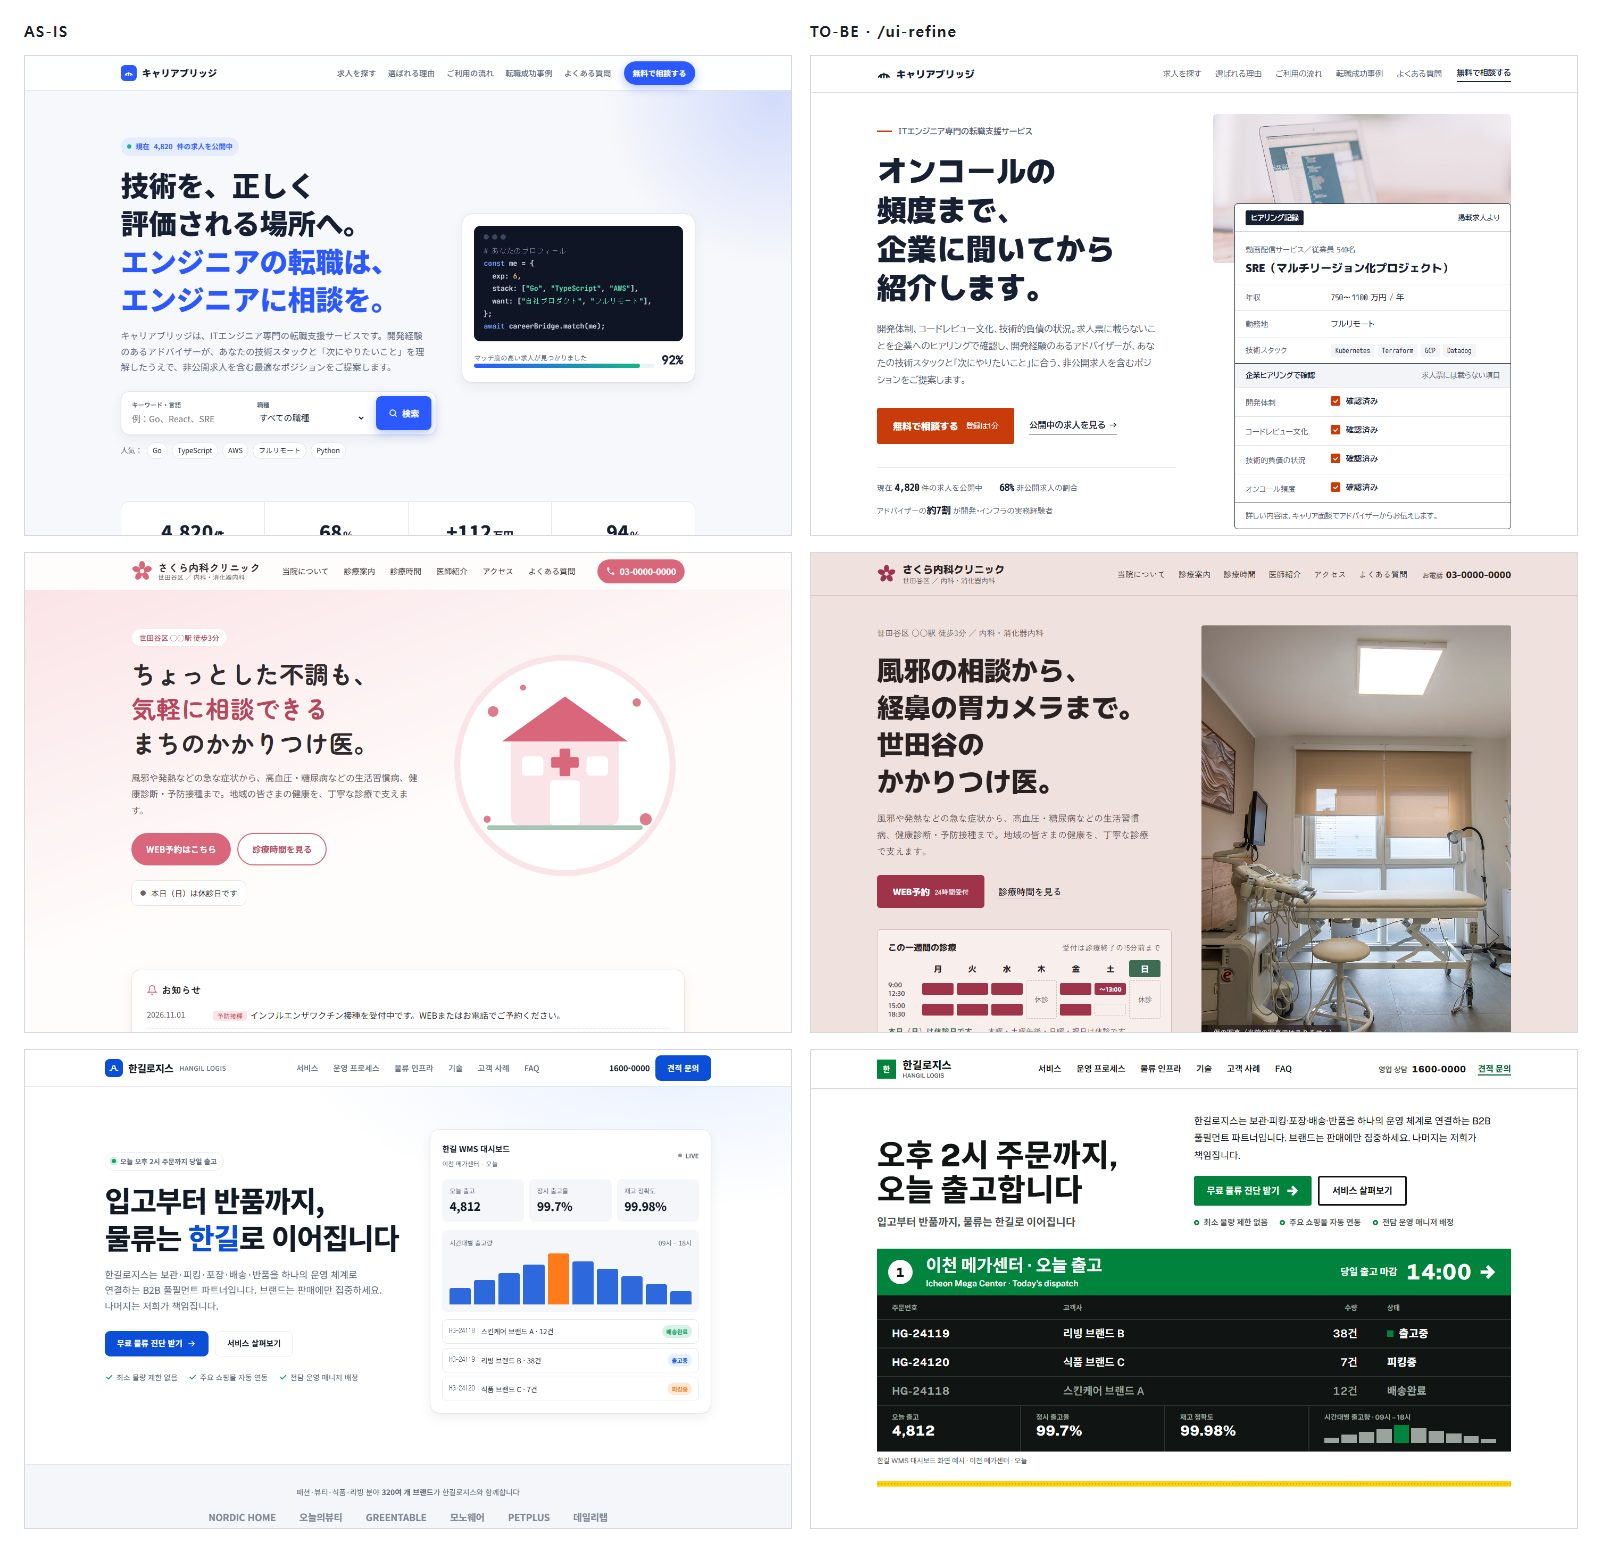
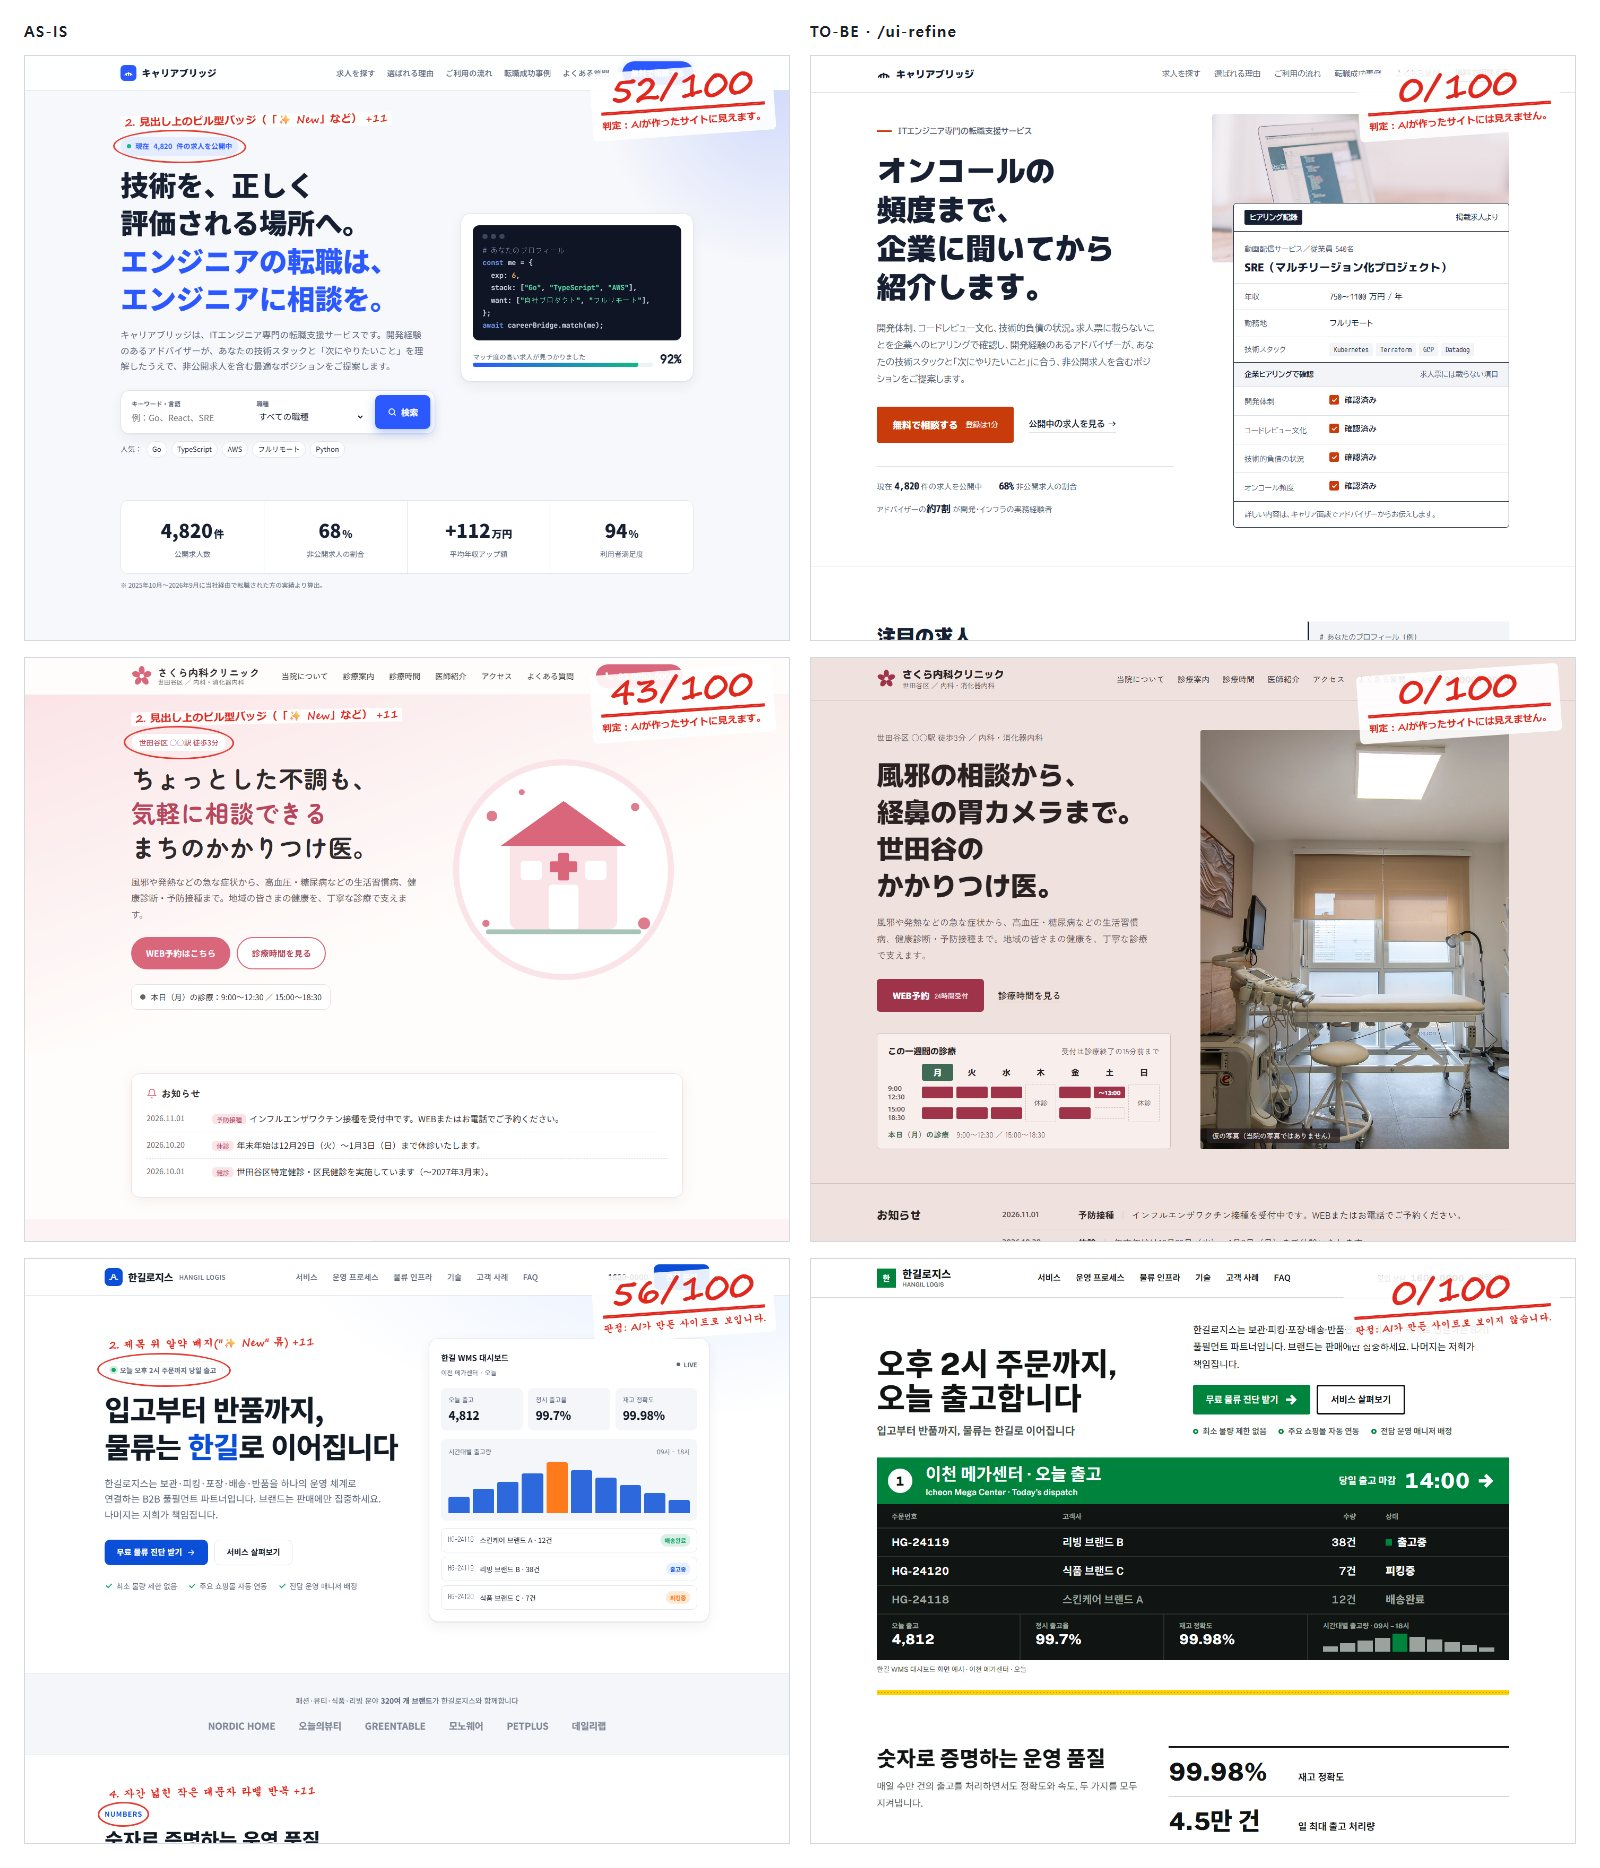
feat: scan saves the screenshot marked up like a graded paper
- ui-refiner scan writes scan-graded.png: each scored signal circled in red
  where it was found, with its points, and the score and verdict at the top.
  DESIGN_REVIEW.md links it; scan.json records it as `graded`.
- README (en, ko, ja): the before/after image now uses the graded
  screenshots (originals 52, 43, 56; refined pages 0).

diff --git a/README_KO.md b/README_KO.md
@@ -20,6 +20,7 @@ Claude Code와 Codex용 디자인 도구입니다. 에이전트가 만든 페이
   - `ui-refiner scan <url | 파일>`은 설정 없이 돌아갑니다.
   - 렌더링된 화면에서 스무 가지 남짓한 신호를 봅니다. 보라색 그라데이션, 아이콘 카드 그리드, 알약 모양 라벨, 유리 효과, 영어·한국어·일본어의 상투적인 문구 등입니다. 신호마다 근거, 뻔해 보이는 이유, 수정 방향이 붙습니다.
   - AI가 만든 사이트와 사람이 만든 사이트 약 250곳으로 맞췄습니다. 20점 이상을 기준으로 AI 사이트의 66–74%를 잡고, 사람 사이트는 0–15%가 걸립니다.
+  - 스크린샷을 채점한 시험지처럼 표시한 이미지(`scan-graded.png`)도 저장합니다. 점수가 붙은 신호마다 발견된 자리에 빨간 동그라미와 점수를 적고, 맨 위에 총점을 씁니다.
   - 다시 스캔하면 전후 비교부터 보여 줍니다.
 - **일본어 페이지는 실제 일본 사이트 209곳 사이에 놓고 봅니다.**
   - 조판 검사: 일본어 글꼴 누락, 좁은 행간, 제목의 한 글자 넘김(泣き別れ), 어색한 줄바꿈, 가짜 이탤릭.
@@ -29,7 +30,7 @@ Claude Code와 Codex용 디자인 도구입니다. 에이전트가 만든 페이
 
 ![벤치마크 페이지 3개: 왼쪽이 원본, 오른쪽이 /ui-refine 적용 후.](docs/assets/as-is-to-be.jpg)
 
-벤치마크 페이지 3개를 Claude가 처음 만든 그대로(왼쪽)와, 세 방향을 쓰는 현재 refine을 적용한 뒤(오른쪽, 미출시)입니다. 사람이 고르는 자리에서는 에이전트가 대신 골랐습니다. 병원 사진은 출처를 밝힌 임시 사진입니다.
+벤치마크 페이지 3개를 Claude가 처음 만든 그대로(왼쪽)와, 세 방향을 쓰는 현재 refine을 적용한 뒤(오른쪽, 미출시)입니다. 사람이 고르는 자리에서는 에이전트가 대신 골랐습니다. 병원 사진은 출처를 밝힌 임시 사진입니다. 빨간 표시는 스캔이 직접 그린 채점본(`scan-graded.png`)입니다. 점수가 붙은 신호마다 발견된 자리에 동그라미와 점수를 적고, 오른쪽 위에 AI 티 점수를 씁니다. 원본은 52, 43, 56점이고 고친 페이지는 0점입니다. refine은 자기 스캔에 걸리는 것이 없을 때까지 고치므로 0점은 당연한 결과입니다. 목록에 있는 신호가 사라졌다는 뜻이지, 디자인이 좋다는 뜻은 아닙니다.
 
 | 한국어·일본어 3페이지, 각 1회 실행 | 17회차 | 12회차 | 재료만 | 세 방향 |
 |---|---:|---:|---:|---:|

diff --git a/CHANGELOG.md b/CHANGELOG.md
@@ -5,6 +5,7 @@ All notable changes to UI Refiner. Dates are in Asia/Tokyo. Versions follow `pac
 ## Unreleased
 
 ### Added
+- `ui-refiner scan` also writes `scan-graded.png`: the desktop screenshot marked up like a graded paper. Each scored signal is circled in red where it was found (up to three places per signal) with its points beside the first, and the score and verdict are written at the top. Signals that have no single place on the page (a plain typeface, for example) are not circled. `DESIGN_REVIEW.md` links it next to the screenshots and `scan.json` records it as `graded`. Scans run inside `directions` and the collectors do not draw it.
 - `ui-refiner system extract <main page>` measures the picked main page (type, sizes, colours, main button, box radius, rules, content width) and writes `ui-refiner-system.json` and `DESIGN_SYSTEM.md`. `ui-refiner system check <page…>` lists where other pages of the site leave that design and exits 1 on drift. The refine skill now runs the directions step once, for the main page, and builds the site's other pages from the system: variety belongs between the three directions and between clients, not between pages of one site. In an inner-page benchmark (8 sites, main page code not available, `docs/SITE_BENCHMARK_2026-11-13.md`), 16 of 16 inner pages built from the system kept the design against 0 of 16 built from a screenshot, and three judges picked them in 18 of 23 verdicts. The system also records whether the main page is photo-led, and `system check` flags an inner page of a photo-led site that has no photos.
 
 - `directions deal --trade <trade>` narrows the familiar direction to the client's own trade on Korean and Japanese pages. Its hero structure and accent family are drawn from human-made sites of that trade in that country, and the lane receives their type figures (`measured`: body size, largest text over body, line height on Japanese pages, share of serif display, first-screen ground). `data/genre-reference/human.json` holds 33 trade and country groups of 8 or more sites, from 512 Korean and Japanese sites in 26 trades measured in November 2026 (`scripts/genre-sites.tsv`, built with `scripts/build-genre-reference.mjs`). In these trades about 80% of first screens open with a photo or products, and a left headline over text leads only among Japanese academies. A trade with too few sites for the language falls back to the page kind. Not yet benchmarked.

diff --git a/README.md b/README.md
@@ -20,6 +20,7 @@ A design toolkit for Claude Code and Codex. It makes pages built by an agent loo
   - `ui-refiner scan <url | file>` needs no config.
   - It checks about two dozen rendered signals: purple gradients, icon-card grids, eyebrow pills, glass, stock copy in English, Korean and Japanese, and more. Each one comes with evidence, the reason it reads as generic, and a fix.
   - It was calibrated on about 250 AI-built and human-made sites. At a score of 20 or more it flags 66–74% of AI-built sites and 0–15% of human ones.
+  - It also saves the screenshot marked up like a graded paper (`scan-graded.png`): each scored signal circled in red where it was found, with its points, and the score at the top.
   - A rescan opens with a before/after comparison.
 - **Japanese pages placed among 209 real Japanese sites.**
   - Typesetting checks: missing Japanese fonts, cramped line height, heading orphans (泣き別れ), bad breaks and fake italics.
@@ -29,7 +30,7 @@ A design toolkit for Claude Code and Codex. It makes pages built by an agent loo
 
 ![Three benchmark pages: the original on the left, after /ui-refine on the right.](docs/assets/as-is-to-be.jpg)
 
-Three of the benchmark pages as Claude first built them (left) and after the current refine with three directions (right, unreleased). The agent picked the direction where a person normally would. The clinic photo is a credited stand-in.
+Three of the benchmark pages as Claude first built them (left) and after the current refine with three directions (right, unreleased). The agent picked the direction where a person normally would. The clinic photo is a credited stand-in. The red marks are the scan's own (`scan-graded.png`): each scored signal circled where it was found, with its points, and the AI-look score at the top right. The originals score 52, 43 and 56; the refined pages score 0, which is expected, because a refine keeps working until its own scan finds nothing. It says the listed signals are gone, not that the design is good.
 
 | 3 Korean and Japanese pages, one run each | Round 17 | Round 12 | Materials only | Three directions |
 |---|---:|---:|---:|---:|
